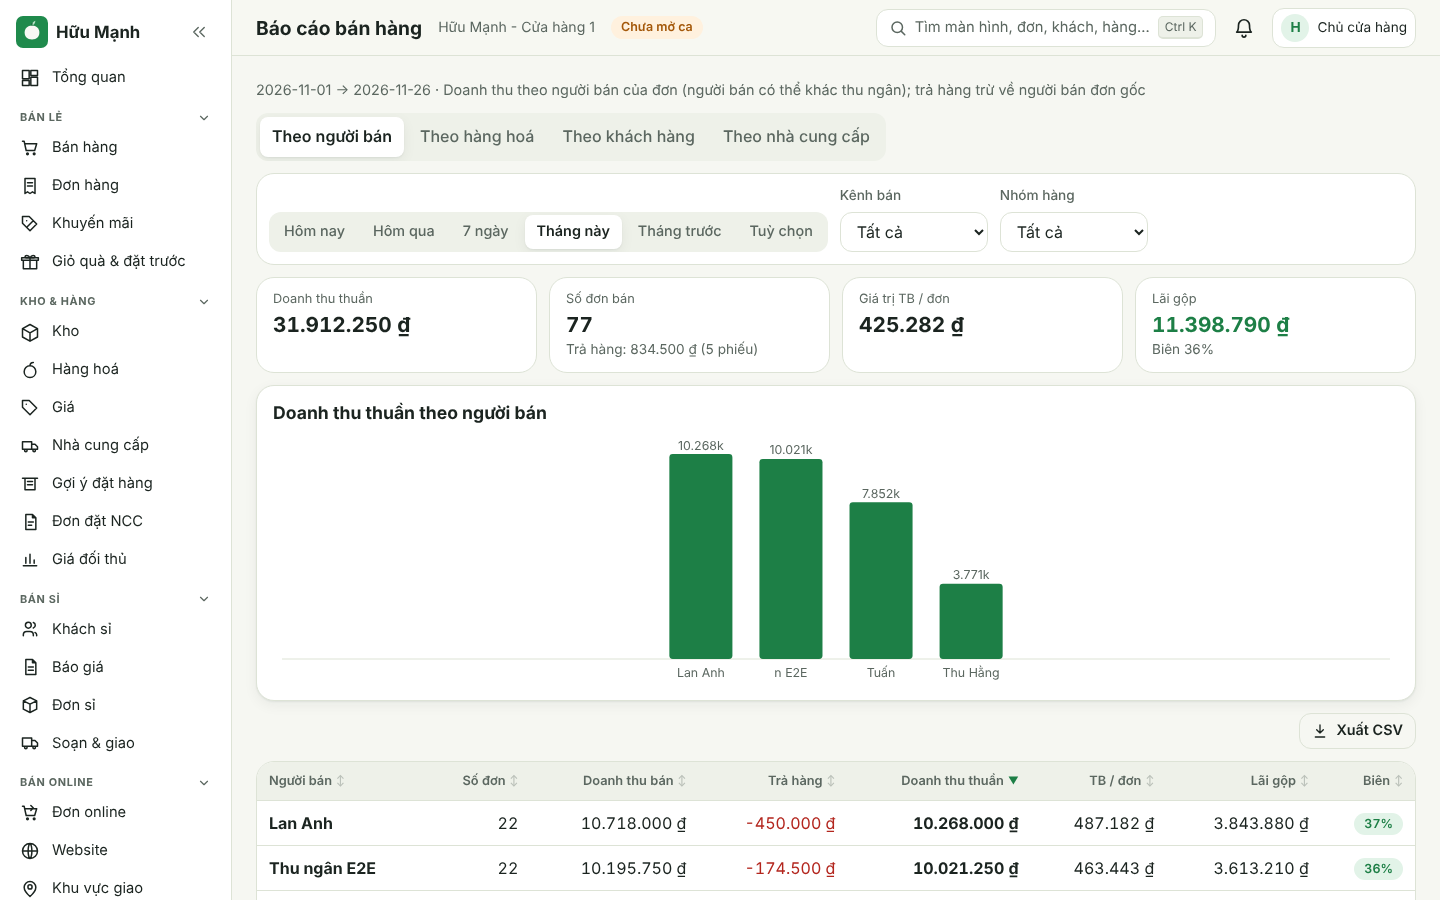
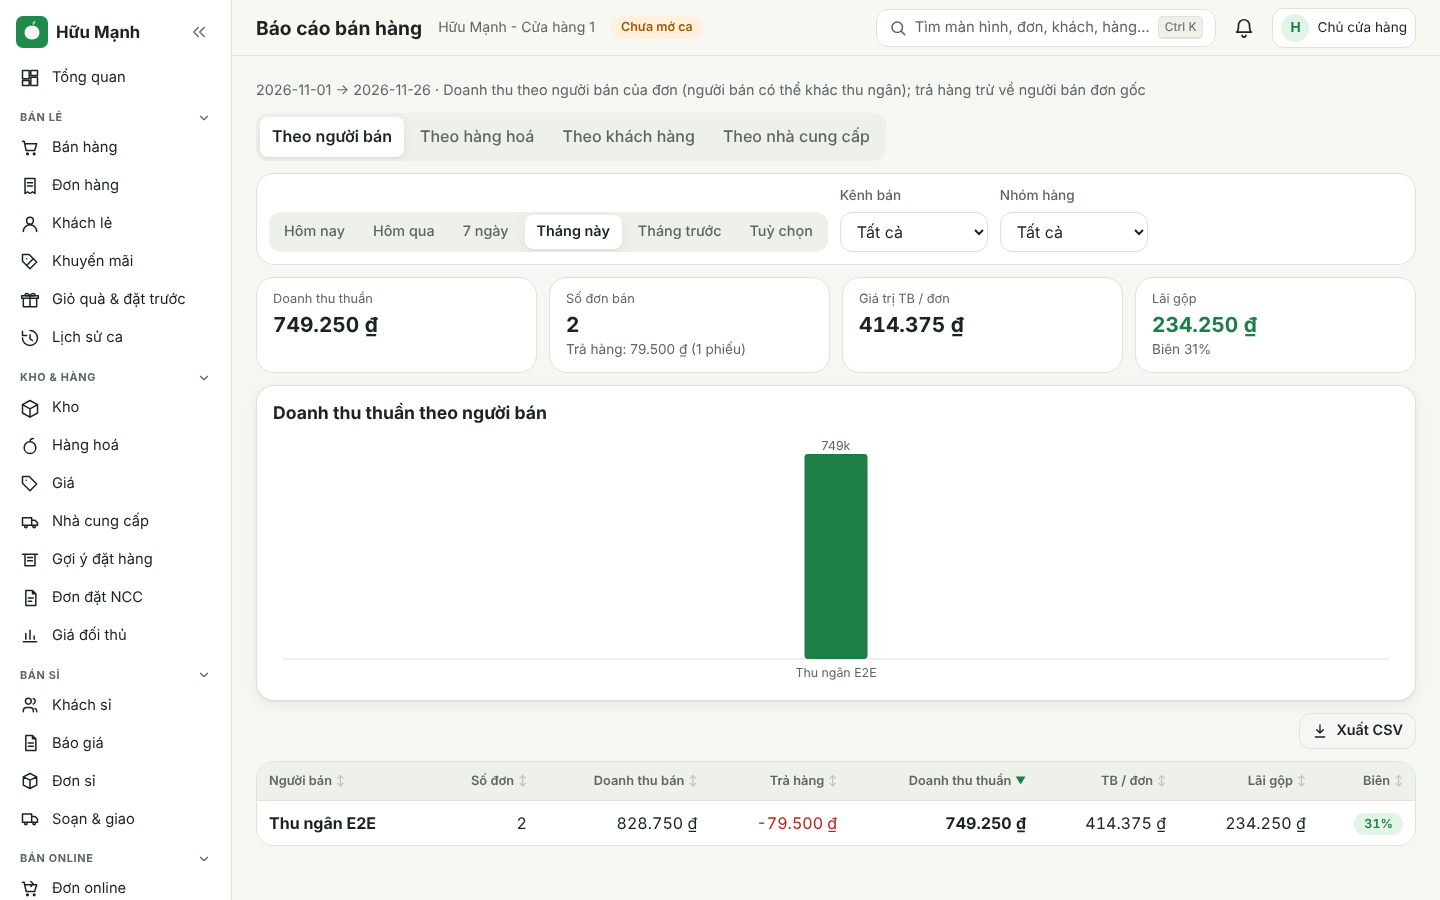
Báo cáo bán hàng: nhãn biểu đồ tên người bán cắt đuôi (BarChart thêm prop tuỳ chọn labelMax); Hoa hồng: diễn giải mỗi quy tắc một dòng
Claude-Session: https://claude.ai/code/session_01B1cfSLiaJCBmAvf46zapqc

diff --git a/src/web/components/charts.tsx b/src/web/components/charts.tsx
@@ -1,7 +1,7 @@
 import { money, num } from "../format";
 
 /** `maxBar` (tuỳ chọn, đơn vị viewBox): giới hạn bề rộng cột và gom nhóm cột vào giữa khi ít dữ liệu, tránh cột to bản. */
-export function BarChart({ data, height = 180, format = money, maxBar, width = 560 }: { data: { label: string; value: number }[]; height?: number; format?: (n: number) => string; maxBar?: number; width?: number }) {
+export function BarChart({ data, height = 180, format = money, maxBar, width = 560, labelMax }: { data: { label: string; value: number }[]; height?: number; format?: (n: number) => string; maxBar?: number; width?: number; /** Nhãn là tên (không phải ngày): cắt đuôi kèm "…" khi dài hơn số ký tự này, thay cho cách lấy 5 ký tự cuối. */ labelMax?: number }) {
   const W = width, padL = 8, padB = 22, padT = 16;
   const max = Math.max(1, ...data.map((d) => d.value));
   const slot = (W - padL * 2) / Math.max(1, data.length);
@@ -16,7 +16,7 @@ export function BarChart({ data, height = 180, format = money, maxBar, width = 5
         return (
           <g key={i}>
             <rect className="bar" x={x} y={height - padB - h} width={w} height={h} rx={3}><title>{`${d.label}: ${format(d.value)}`}</title></rect>
-            {data.length <= 12 && <text x={x + w / 2} y={height - 6} textAnchor="middle">{d.label.length > 8 ? d.label.slice(-5) : d.label}</text>}
+            {data.length <= 12 && <text x={x + w / 2} y={height - 6} textAnchor="middle">{labelMax ? (d.label.length > labelMax ? d.label.slice(0, labelMax - 1) + "…" : d.label) : d.label.length > 8 ? d.label.slice(-5) : d.label}</text>}
             {data.length <= 7 && d.value > 0 && <text x={x + w / 2} y={height - padB - h - 4} textAnchor="middle">{num(Math.round(d.value / 1000))}k</text>}
           </g>
         );

diff --git a/src/web/screens/SalesReports.tsx b/src/web/screens/SalesReports.tsx
@@ -62,7 +62,7 @@ function Sellers({ q, cost }: { q: Q; cost: boolean }) {
       {d?.basis === "lines" && <div className="small muted">Đang lọc theo nhóm hàng: số liệu tính trên dòng hàng của nhóm, không gồm phí giao hàng.</div>}
       {!rows.length ? <Card>{EMPTY}</Card> : (
         <>
-          <Card title="Doanh thu thuần theo người bán"><BarChart width={wide ? 1000 : 560} height={wide ? 220 : 180} maxBar={wide ? 56 : 44} data={rows.slice(0, 10).map((x) => ({ label: x.sellerName.length > 14 ? x.sellerName.slice(0, 13) + "…" : x.sellerName, value: x.revenue }))} /></Card>
+          <Card title="Doanh thu thuần theo người bán"><BarChart width={wide ? 1000 : 560} height={wide ? 220 : 180} maxBar={wide ? 56 : 44} labelMax={wide ? 14 : 9} data={rows.slice(0, 10).map((x) => ({ label: x.sellerName, value: x.revenue }))} /></Card>
           <div className="row" style={{ justifyContent: "flex-end" }}><ExportButton filename={`ban-hang-theo-nguoi-ban_${q.from}_${q.to}`} rows={rows} columns={[
               { label: "Người bán", value: (x) => x.sellerName }, { label: "Số đơn", value: (x) => x.saleCount }, { label: "Doanh thu bán", value: (x) => x.sales }, { label: "Trả hàng", value: (x) => x.returns },
               { label: "Doanh thu thuần", value: (x) => x.revenue }, { label: "TB / đơn", value: (x) => x.avgOrder }, ...(cost ? [{ label: "Giá vốn", value: (x: any) => x.cogs }, { label: "Lãi gộp", value: (x: any) => x.grossProfit }] : []),

diff --git a/src/web/screens/hr/Commission.tsx b/src/web/screens/hr/Commission.tsx
@@ -124,7 +124,7 @@ function Preview() {
                 { key: "r", label: "Doanh thu thuần", num: true, sort: (x) => x.revenue, render: (x) => money(x.revenue) },
                 { key: "u", label: "Ngoài quy tắc", num: true, hideBelow: 1280, sort: (x) => x.uncoveredRevenue, render: (x) => (x.uncoveredRevenue ? money(x.uncoveredRevenue) : "—") },
                 { key: "c", label: "Hoa hồng", num: true, sort: (x) => x.commission, render: (x) => <b>{money(x.commission)}</b> },
-                { key: "p", label: "Diễn giải", hideBelow: 1024, render: (x) => <span className="small">{x.parts.map((p: any) => `${p.name}: ${money(p.revenue)} × ${pctText(p.rateBp)} = ${money(p.amount)}`).join(" · ") || "—"}</span> },
+                { key: "p", label: "Diễn giải", hideBelow: 1024, render: (x) => x.parts.length ? <div className="small" style={{ textAlign: "left" }}>{x.parts.map((p: any, i: number) => <div key={i}>{p.name}: {money(p.revenue)} × {pctText(p.rateBp)} = {money(p.amount)}</div>)}</div> : "—" },
               ]} />
           )}
           <div className="small muted">Doanh thu "ngoài quy tắc" là phần không khớp quy tắc nào nên không có hoa hồng. Người chưa có hồ sơ nhân viên liên kết tài khoản sẽ không nhận hoa hồng trong bảng lương.</div>
